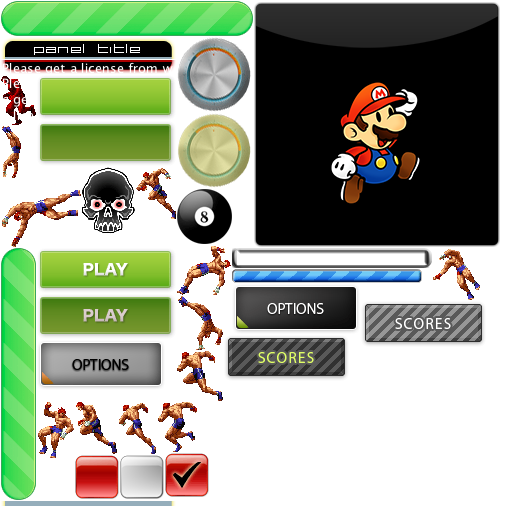
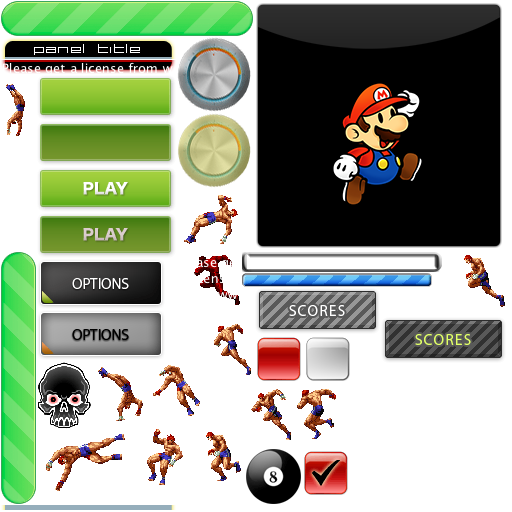
added support for 4x textures fixed bugs with scrollable horizontal containers

diff --git a/Assets/Plugins/UIToolkit/BaseElements/UIAbstractTouchableContainer.cs b/Assets/Plugins/UIToolkit/BaseElements/UIAbstractTouchableContainer.cs
@@ -16,7 +16,7 @@ public abstract class UIAbstractTouchableContainer : UIAbstractContainer, ITouch
 	
 	protected const int TOTAL_VELOCITY_SAMPLE_COUNT = 3;
 	protected const float SCROLL_DECELERATION_MODIFIER = 0.93f; // how fast should we slow down
-	protected float TOUCH_MAX_DELTA_FOR_ACTIVATION = UI.isHD ? 10 : 5;
+	protected float TOUCH_MAX_DELTA_FOR_ACTIVATION = 5; // this is the SD setting. the constructor will modify this for HD/XD
 	protected const float CONTENT_TOUCH_DELAY = 0.1f;
 	
 	protected bool _isDragging;
@@ -54,6 +54,7 @@ public abstract class UIAbstractTouchableContainer : UIAbstractContainer, ITouch
 	// Default constructor
 	public UIAbstractTouchableContainer( UIToolkit manager, UILayoutType layoutType, int spacing ) : base( layoutType )
 	{
+		TOUCH_MAX_DELTA_FOR_ACTIVATION *= UI.scaleFactor;
 		_spacing = spacing;
 		_manager = manager;
 		
@@ -97,12 +98,17 @@ public abstract class UIAbstractTouchableContainer : UIAbstractContainer, ITouch
 			_scrollPosition -= snapBack;
 			layoutChildren();
 
-			// once we are moving less then a 1/2 pixel stop the animation
-			if( Mathf.Abs( snapBack ) < 0.5f )
+			// once we are moving less then a 0.2 pixel stop the animation and hit out target
+			if( Mathf.Abs( snapBack ) < 0.2f )
+			{
+				_scrollPosition = targetScrollPosition;
 				break;
+			}
 
 			yield return null;
 		}
+		
+		layoutChildren();
 		
 		_isDraggingPastExtents = false;
 	}
@@ -213,7 +219,7 @@ public abstract class UIAbstractTouchableContainer : UIAbstractContainer, ITouch
 			_scrollPosition = (int)Mathf.Lerp( start, target, easPos );
 			layoutChildren();
 
-			if( ( startTime + duration ) <= Time.time )
+			if( easPos == 1 )
 				running = false;
 
 			yield return null;

diff --git a/Assets/DemoSceneScripts/ScrollableHorizontalContainerManager.cs b/Assets/DemoSceneScripts/ScrollableHorizontalContainerManager.cs
@@ -11,13 +11,13 @@ public class ScrollableHorizontalContainerManager : MonoBehaviour
 	
 	void Start()
 	{
-		// add two scrollables: one with pageing enabled
+		// add two scrollables: one with paging enabled and one without
 		var scrollable = new UIScrollableHorizontalLayout( 10 );
 
 		// we wrap the addition of all the sprites with a begin updates so it only lays out once when complete
 		scrollable.beginUpdates();
 		
-		var height = UI.isHD ? 150 : 300;
+		var height = UI.scaleFactor * 50;
 		var width = Screen.width / 1.4f;
 		scrollable.setSize( width, height );
 		scrollable.position = new Vector3( ( Screen.width - width ) / 2, -Screen.height + height, 0 );
@@ -88,17 +88,18 @@ public class ScrollableHorizontalContainerManager : MonoBehaviour
 		
 		
 		
-		// add another scrollable
+		// add another scrollable, this one with paging enabled
 		scrollable = new UIScrollableHorizontalLayout( 0 );
 
 		// we wrap the addition of all the sprites with a begin updates so it only lays out once when complete
 		scrollable.beginUpdates();
 		
-		var widthAndHeight = UI.isHD ? 500 : 250;
+		var widthAndHeight = UI.scaleFactor * 250f;
 		scrollable.setSize( widthAndHeight, widthAndHeight );
+		// paging will snap to the nearest page when scrolling
 		scrollable.pagingEnabled = true;
 		
-		// paging will snap to the nearest page when scrolling
+		// center the scrollable horizontally
 		scrollable.position = new Vector3( ( Screen.width - widthAndHeight ) / 2, 0, 0 );
 		
 		for( var i = 0; i < 5; i++ )
@@ -110,4 +111,5 @@ public class ScrollableHorizontalContainerManager : MonoBehaviour
 		scrollable.endUpdates();
 		scrollable.endUpdates(); // this is a bug. it shouldnt need to be called twice
 	}
+
 }

diff --git a/Assets/Plugins/UIToolkit/UI.cs b/Assets/Plugins/UIToolkit/UI.cs
@@ -21,9 +21,10 @@ public class UI : MonoBehaviour
 	// if set to true, the texture will be chosen and loaded from textureName
 	// the base texture to use. If HD/retina, textureName2x will be loaded.  Both need to be in Resources.
 	// this also doubles as the name of the json config file generated by Texture Packer
-	public bool autoTextureSelectionForHD = false;
+	public bool autoTextureSelectionForHD = true;
 	public bool allowPod4GenHD = true; // if false, iPod touch 4G will not take part in HD mode
 	public int maxWidthOrHeightForSD = 960; // if the width/height of the screen equals or exceeds this size HD mode will be triggered
+	public int maxWidthOrHeightForHD = 2048;
 	
 	
 	public static bool isHD = false;
@@ -82,8 +83,18 @@ public class UI : MonoBehaviour
 #endif
 		if( autoTextureSelectionForHD && deviceAllowsHD )
 		{
-			// are we laoding up a 2x texture?
-			if( Screen.width >= maxWidthOrHeightForSD || Screen.height >= maxWidthOrHeightForSD )
+			// are we loading up a 4x texture?
+			if( Screen.width >= maxWidthOrHeightForHD || Screen.height >= maxWidthOrHeightForHD )
+			{
+#if UNITY_EDITOR
+				Debug.Log( "switching to 4x GUI texture" );
+#endif
+				isHD = true;
+				scaleFactor = 4;
+				hdExtension = "4x";
+			}
+			// are we loading up a 2x texture?
+			else if( Screen.width >= maxWidthOrHeightForSD || Screen.height >= maxWidthOrHeightForSD )
 			{
 #if UNITY_EDITOR
 				Debug.Log( "switching to 2x GUI texture" );

diff --git a/Assets/DemoSceneScripts/ScrollableContainerManager.cs b/Assets/DemoSceneScripts/ScrollableContainerManager.cs
@@ -14,7 +14,7 @@ public class ScrollableContainerManager : MonoBehaviour
 		var scrollable = new UIScrollableVerticalLayout( 10 );
 		scrollable.alignMode = UIAbstractContainer.UIContainerAlignMode.Center;
 		scrollable.position = new Vector3( 0, -50, 0 );
-		var width = UI.isHD ? 300 : 150;
+		var width = UI.scaleFactor * 150;
 		scrollable.setSize( width, Screen.height / 1.4f );
 		
 		for( var i = 0; i < 20; i++ )
@@ -106,9 +106,8 @@ public class ScrollableContainerManager : MonoBehaviour
 		scores.onTouchUpInside += ( sender ) =>
 		{
 			var target = scrollable.position;
-			var moveBy = _movedContainer ? -100 : 100;
-			if( !UI.isHD )
-				moveBy /= 2;
+			var moveBy = _movedContainer ? -50 : 50;
+			moveBy *= UI.scaleFactor;
 			target.x += moveBy * 2;
 			target.y += moveBy;
 			scrollable.positionTo( 0.4f, target, Easing.Quintic.easeIn );

diff --git a/Assets/Plugins/UIToolkit/UIToolkit.cs b/Assets/Plugins/UIToolkit/UIToolkit.cs
@@ -172,7 +172,7 @@ public class UIToolkit : UISpriteManager
 	}
 #endif
 
-	#endregion;
+	#endregion
 
 
 	#region Add/Remove Element and Button functions
@@ -214,7 +214,7 @@ public class UIToolkit : UISpriteManager
 
 	}
 
-	#endregion;
+	#endregion
 
 	
 	#region Touch management and analysis helpers
@@ -304,7 +304,7 @@ public class UIToolkit : UISpriteManager
 		return null;
 	}
 
-	#endregion;
+	#endregion
 
 
 }

diff --git a/Assets/Plugins/UIToolkit/BaseElements/UIAbstractContainer.cs b/Assets/Plugins/UIToolkit/BaseElements/UIAbstractContainer.cs
@@ -180,7 +180,7 @@ public abstract class UIAbstractContainer : UIObject, IPositionable
 
 					// Set anchor offset
 					anchorInfo.OffsetX = ( _contentWidth + _scrollPosition ) * hdFactor;
-					
+
 					// dont overwrite the sprites origin anchor!
 					anchorInfo.OriginUIxAnchor = item.anchorInfo.OriginUIxAnchor;
 					anchorInfo.OriginUIyAnchor = item.anchorInfo.OriginUIyAnchor;

diff --git a/Assets/Plugins/UIToolkit/UIElements/UISlider.cs b/Assets/Plugins/UIToolkit/UIElements/UISlider.cs
@@ -135,7 +135,7 @@ public class UISlider : UITouchableSprite
             _knobMinimumXY = -_knobMaximumXY;
 		}
 
-        var hdFactor = UI.isHD ? 0.5f : 1f;
+        var hdFactor = 1f / UI.scaleFactor;
         _knobMaximumXY *= hdFactor;
         _knobMinimumXY *= hdFactor;
 	}
